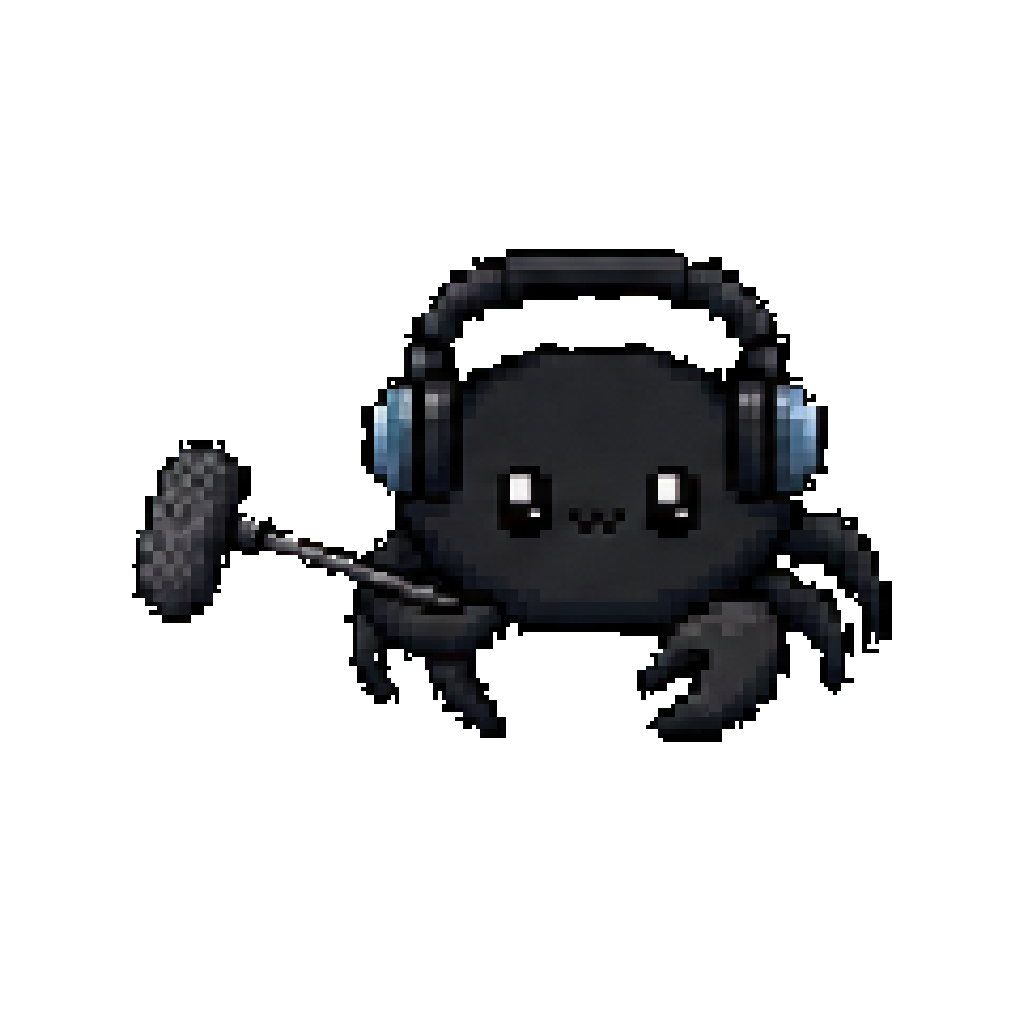
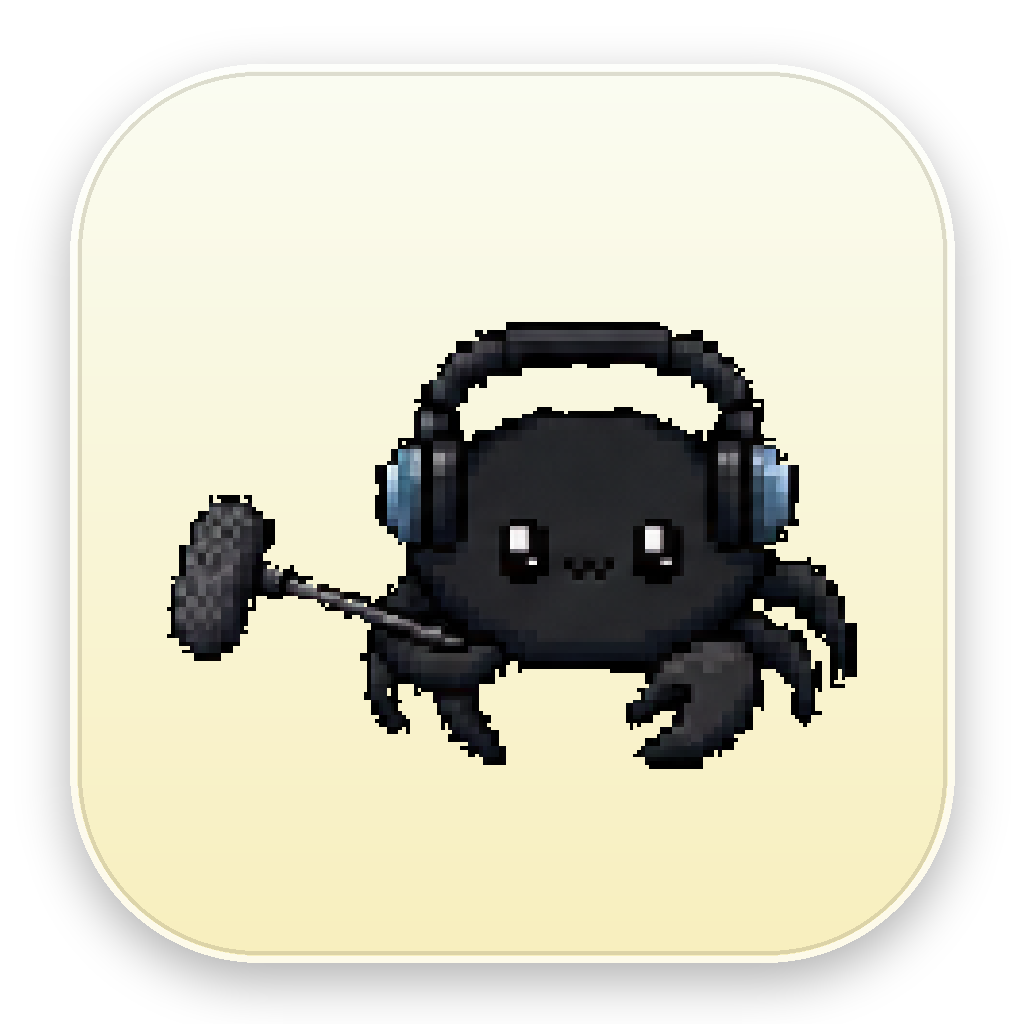
Polish crab branding and wall overlay assets

diff --git a/macos/Sources/AppDelegate.swift b/macos/Sources/AppDelegate.swift
@@ -653,6 +653,13 @@ class AppDelegate: NSObject, NSApplicationDelegate {
     }
 
     private func menuBarImage(for state: AppState) -> NSImage? {
+        if let image = crabMenuBarImage(
+            named: state == .recording ? "recording-1" : "idle-1",
+            accessibilityDescription: menuBarAccessibilityDescription(for: state)
+        ) {
+            return image
+        }
+
         switch state {
         case .idle:
             let image = NSImage(
@@ -670,6 +677,38 @@ class AppDelegate: NSObject, NSApplicationDelegate {
                 accessibilityDescription: "Transcribing")
             image?.isTemplate = true
             return image
+        }
+    }
+
+    private func crabMenuBarImage(
+        named name: String,
+        accessibilityDescription: String
+    ) -> NSImage? {
+        guard
+            let url = Bundle.main.url(
+                forResource: name,
+                withExtension: "png",
+                subdirectory: "CrabSprites"
+            ),
+            let image = NSImage(contentsOf: url)
+        else {
+            return nil
+        }
+
+        image.size = NSSize(width: 18, height: 18)
+        image.isTemplate = true
+        image.accessibilityDescription = accessibilityDescription
+        return image
+    }
+
+    private func menuBarAccessibilityDescription(for state: AppState) -> String {
+        switch state {
+        case .idle:
+            return "Shout Out"
+        case .recording:
+            return "Recording"
+        case .processing:
+            return "Transcribing"
         }
     }
 

diff --git a/macos/Sources/Views/FloatingIndicator.swift b/macos/Sources/Views/FloatingIndicator.swift
@@ -297,8 +297,6 @@ private struct SpriteWallCrab: View {
                     .interpolation(.none)
                     .antialiased(false)
                     .scaledToFit()
-                    .frame(width: 68, height: 50, alignment: .trailing)
-                    .rotationEffect(.degrees(-90))
                     .frame(width: 54, height: 76, alignment: .trailing)
             }
 
@@ -308,21 +306,16 @@ private struct SpriteWallCrab: View {
             }
         }
         .frame(width: 54, height: 76, alignment: .trailing)
-        .offset(x: wallContactOffset)
         .shadow(color: .black.opacity(0.22), radius: 1, x: -1 / max(displayScale, 1), y: 1)
-    }
-
-    private var wallContactOffset: CGFloat {
-        showsBoomMic ? 20 : 12
     }
 
     private var attentionBadge: some View {
         Image(systemName: "exclamationmark.circle.fill")
-            .font(.system(size: 14, weight: .bold))
+            .font(.system(size: 12, weight: .bold))
             .symbolRenderingMode(.palette)
             .foregroundStyle(.orange, Color.black.opacity(0.88))
-            .background(Circle().fill(.white.opacity(0.86)).frame(width: 11, height: 11))
-            .offset(x: -2, y: 7)
+            .background(Circle().fill(.white.opacity(0.86)).frame(width: 9, height: 9))
+            .offset(x: -8, y: 8)
     }
 
     private var currentImage: NSImage? {
@@ -352,7 +345,7 @@ private enum CrabSpriteAssets {
             let url = Bundle.main.url(
                 forResource: name,
                 withExtension: "png",
-                subdirectory: "CrabSprites"
+                subdirectory: "CrabSpritesWall"
             ),
             let image = NSImage(contentsOf: url)
         else {

diff --git a/README.md b/README.md
@@ -4,9 +4,11 @@
   <img src="docs/assets/shout-out-icon.png" alt="Shout Out app icon: a black crab mascot wearing headphones and a boom microphone" width="180">
 </p>
 
-Local-first macOS dictation. Hold Fn, speak, release, and Shout Out pastes cleaned-up text into the app you were already using.
+Shout Out is a small local-first macOS dictation app with a tiny wall-crawling crab mascot. Hold Fn, speak, release, and it pastes cleaned-up text into the app you were already using.
 
-Shout Out is built for the narrow Wispr Flow loop: global Fn/Globe capture, microphone recording, on-device WhisperKit transcription, dictionary-aware cleanup, focused-app paste, and lightweight WPM stats.
+I built it around the voice loop I wanted for everyday writing: quick global Fn/Globe capture, microphone recording, on-device WhisperKit transcription, dictionary-aware cleanup, focused-app paste, and lightweight WPM stats.
+
+The app stays intentionally small: no cloud transcription service, no account system, and no extra editor to manage. The little crab just hangs out on the edge of the screen, scuttles while idle, and pops into boom-mic mode while listening.
 
 ## Install
 